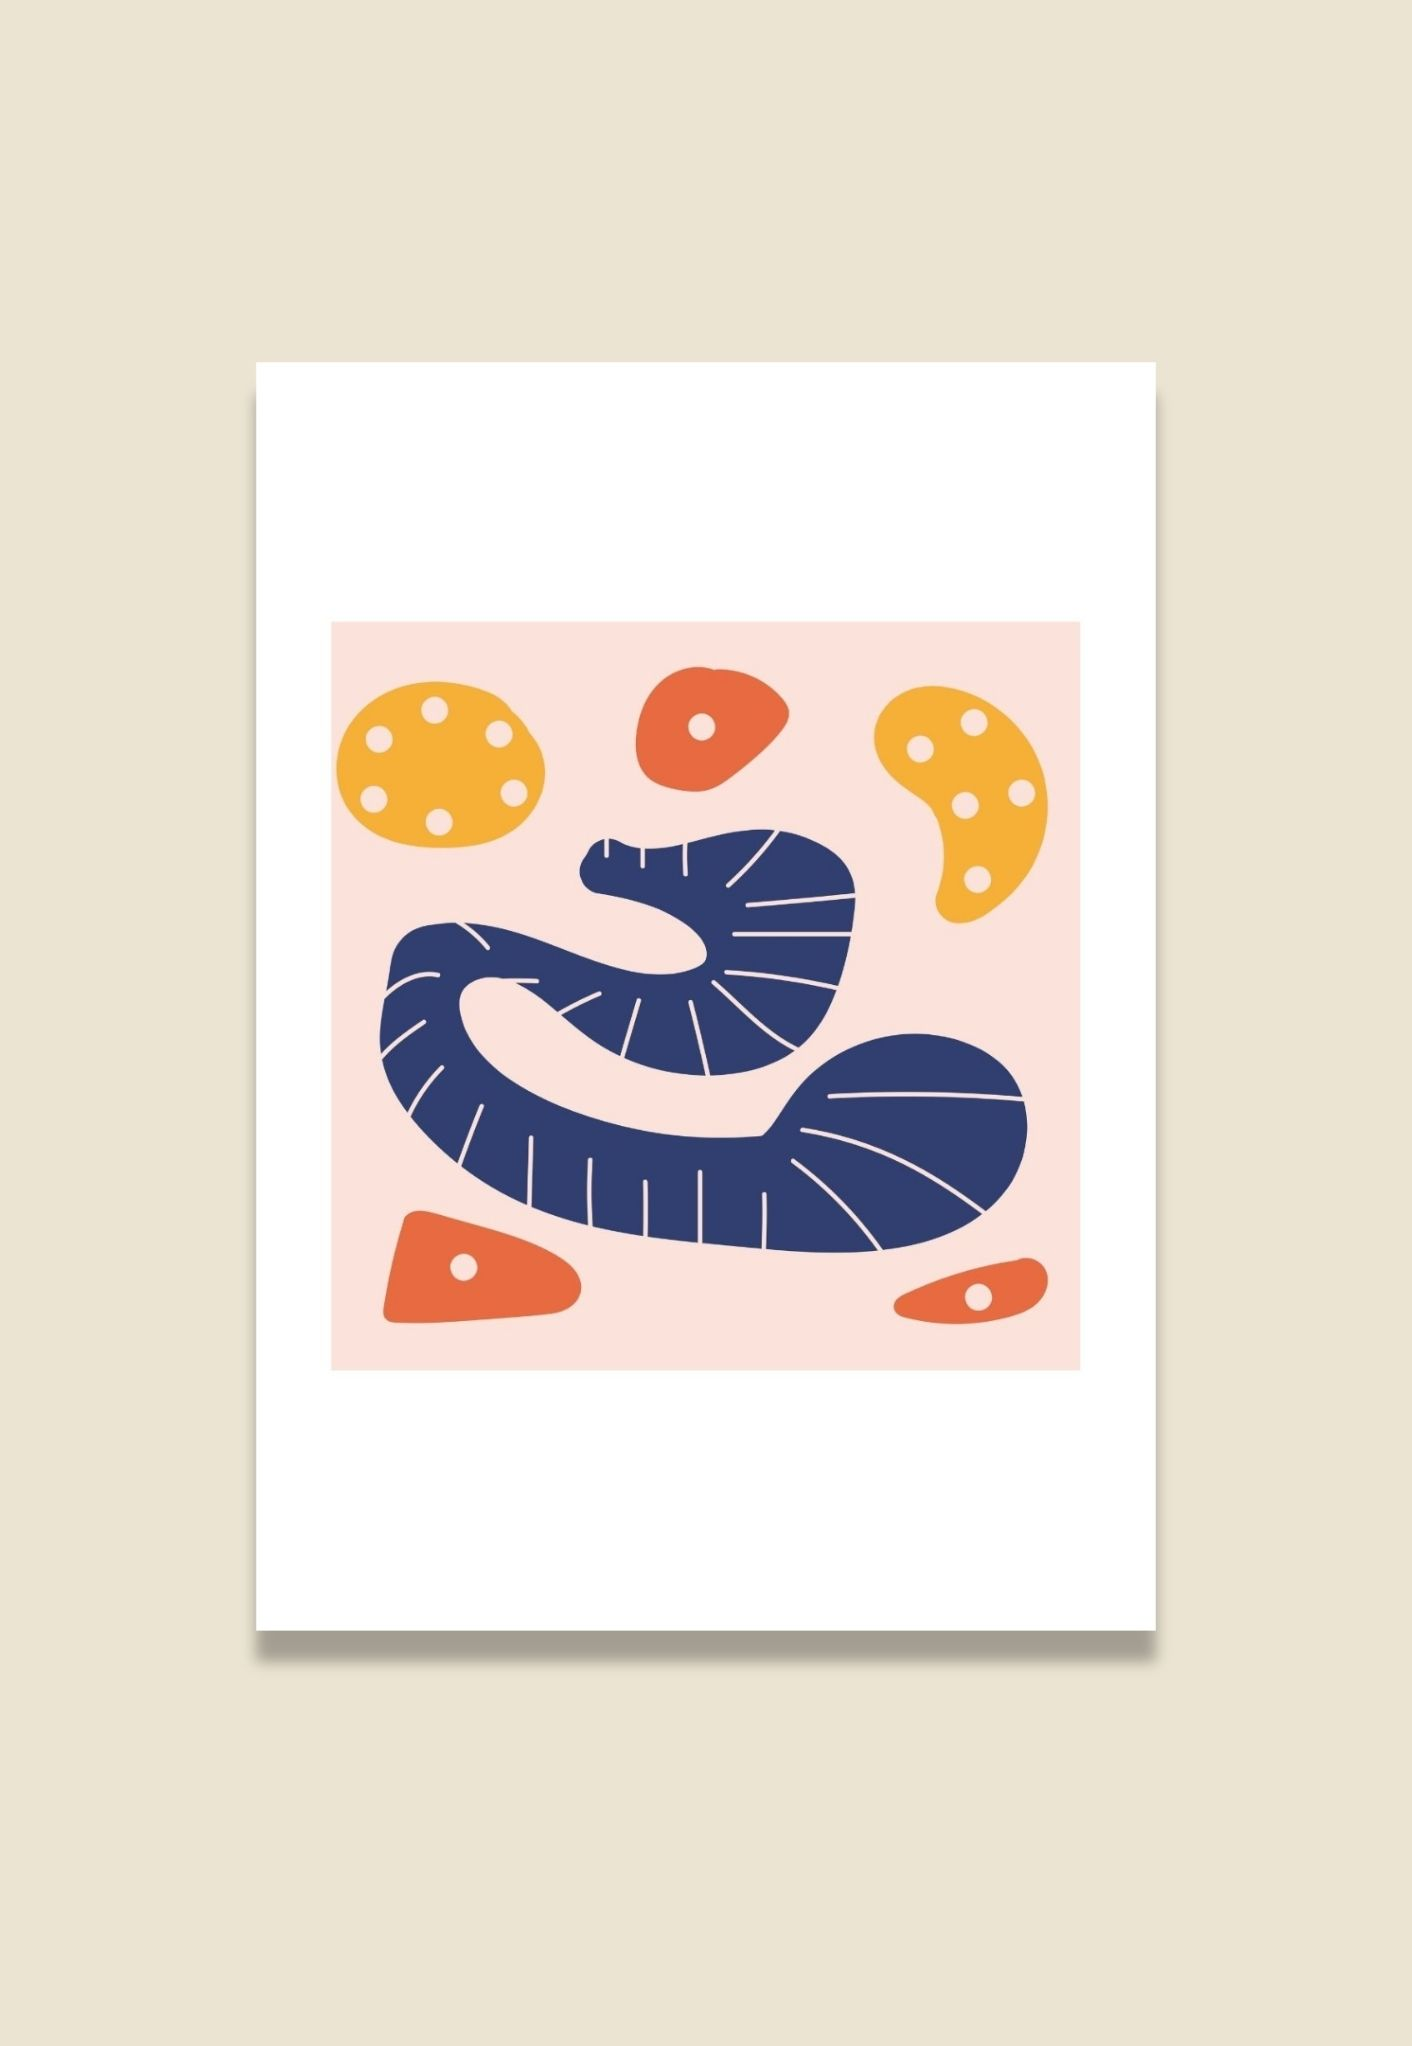
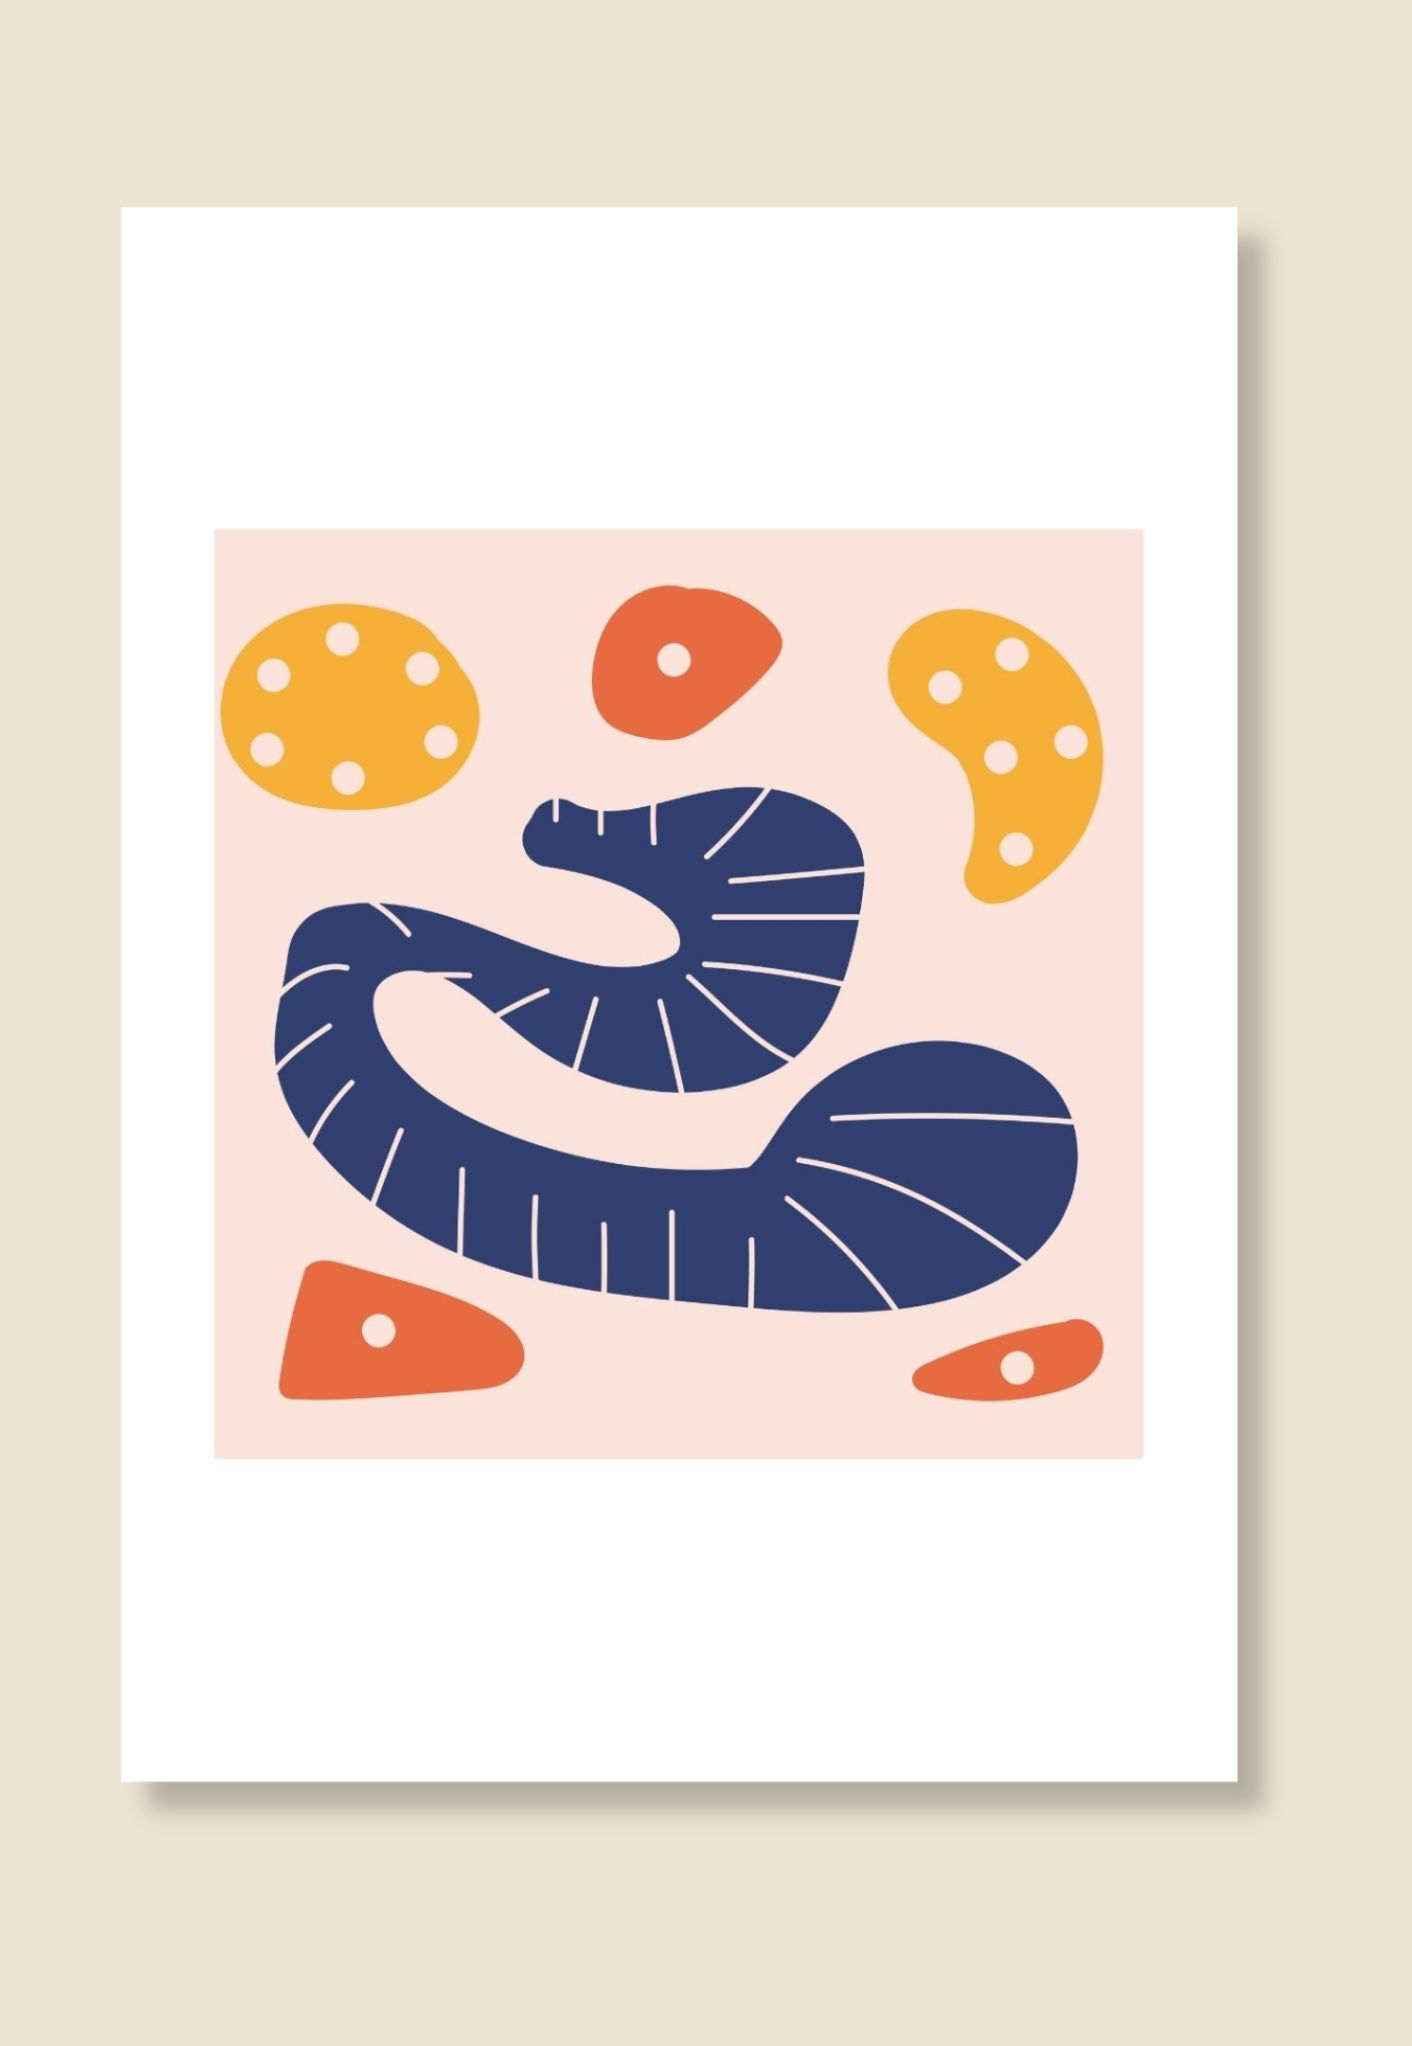
tilføjet produktbilleder og videoer.

diff --git a/js/products.js b/js/products.js
@@ -68,7 +68,77 @@ const products = [
             type: "video/mp4",
             label: "produktvideo"
         }
-    }
+    },
+
+    {
+        slug: "nordisk-kald",
+        title: "Nordisk kald",
+        artist: "Heidi Larsen",
+
+        description: "Bring noget varme og ro ind i hjemmet med det her skønne lille værk af Nana Rooed. Det er perfekt til hvor som helst hvor du mangler farve og roligt spil på din væg.",
+        artistDescription: "Nana Rooed er en kreativ sjæl som holder af at bruge oliekridt og klasiske tucsher. Hendes udtryk bærer derfor også meget præg af teksture og stemninger.",
+        materials: "Printet produceres lokalt i Danmark på kvalitetspapir. Leveringstid og fragt vises ved checkout.",
+
+        images: [
+            {
+                src: "images/nordisk-kald-1.jpg",
+                alt: "print af kvinde med natur"
+            },
+            {
+                src: "images/nordisk-kald-2.jpg",
+                alt: "print af kvinde med natur i ramme"
+            },
+            {
+                src: "images/nordisk-kald-3.jpg",
+                alt: "print af kvinde med natur på væggen"
+            },
+            {
+                src: "images/nordisk-kald-4.jpg",
+                alt: "detaljeret print af kvinde med natur"
+            }
+        ],
+
+        video: {
+            src: "video/nordisk-video.mp4",
+            type: "video/mp4",
+            label: "produktvideo"
+        }
+    },
+
+    {
+        slug: "blaa-slange",
+        title: "Blå slange",
+        artist: "Annie Josefsen",
+
+        description: "Bring noget varme og ro ind i hjemmet med det her skønne lille værk af Nana Rooed. Det er perfekt til hvor som helst hvor du mangler farve og roligt spil på din væg.",
+        artistDescription: "Nana Rooed er en kreativ sjæl som holder af at bruge oliekridt og klasiske tucsher. Hendes udtryk bærer derfor også meget præg af teksture og stemninger.",
+        materials: "Printet produceres lokalt i Danmark på kvalitetspapir. Leveringstid og fragt vises ved checkout.",
+
+        images: [
+            {
+                src: "images/blå-slange-1.jpg",
+                alt: "print af en blå slange"
+            },
+            {
+                src: "images/blå-slange-2.jpg",
+                alt: "print af en blå slange i ramme"
+            },
+            {
+                src: "images/blå-slange-3.jpg",
+                alt: "print af en blå slange på væggen"
+            },
+            {
+                src: "images/blå-slange-4.jpg",
+                alt: "detaljeret print af en blå slange"
+            }
+        ],
+
+        video: {
+            src: "video/blå-video.mp4",
+            type: "video/mp4",
+            label: "produktvideo"
+        }
+    },
 
 
 ];